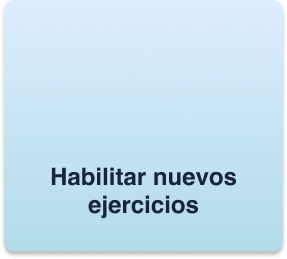
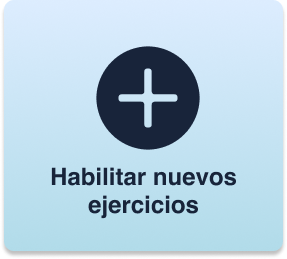
ok?

Changed region(s): [[0.3345, 0.1544, 0.6969, 0.5869]]

diff --git a/src/frontend/CUIDADOR/guia/guia.tsx b/src/frontend/CUIDADOR/guia/guia.tsx
@@ -6,30 +6,43 @@ export default function Guia() {
     const navigate = useNavigate();
 
     const handleNavigateBack = () => {
-        navigate (-1);
+        navigate(-1);
     }
     
     return (
         <div className="contenedor-guia">
             <div className="guia-content">
                 <img src={flecha} alt="flecha" className='flecha' onClick={handleNavigateBack}/>
-                <h1>Titulo</h1>
+                <h1>Guía Médica sobre el ACV</h1>
+                
                 <div className="guia-section">
-                    <h2>Subtitulo</h2>
-                    <p>Bueno acá va ir el súper pro texto breve brevisimo en 24px de tamaño y en helvetica regular porq helvetica es la mejor tipografia del mundo y esta no tiene que ser TAN accesible pero sí super legible helvetica fucking prime</p>
+                    <h2>¿Qué es y cuál es su fisiopatología?</h2>
+                    <p>Un Accidente Cerebrovascular (ACV) o ictus es una emergencia neurológica crítica que ocurre cuando se interrumpe el flujo sanguíneo a una región específica del cerebro. Esta interrupción priva inmediatamente a las neuronas de oxígeno y glucosa, desencadenando una cascada isquémica que, de no revertirse a tiempo, conduce a la muerte celular irreversible.</p>
+                    <p>Existen dos mecanismos fisiopatológicos principales. El más frecuente es el ACV isquémico, que representa aproximadamente el 85% de los casos. Este se produce por la oclusión de una arteria cerebral, generalmente a causa de un trombo formado in situ (aterotrombótico) o un émbolo que viaja desde otra parte del cuerpo, comúnmente desde el corazón.</p>
+                    <p>El segundo mecanismo es el ACV hemorrágico, responsable del 15% restante de los casos. Se desencadena por la ruptura de un vaso sanguíneo intracraneal, lo que genera un sangrado directo en el tejido cerebral o en el espacio subaracnoideo. Esta hemorragia no solo priva de sangre al área afectada, sino que eleva bruscamente la presión dentro del cráneo, comprimiendo mecánicamente el cerebro sano circundante.</p>
                 </div>
+                
                 <div className="guia-section">
-                    <h2>Subtitulo</h2>
-                    <p>Bueno acá va ir el súper pro texto breve brevisimo en 24px de tamaño y en helvetica regular porq helvetica es la mejor tipografia del mundo y esta no tiene que ser TAN accesible pero sí super legible helvetica fucking prime</p>
+                    <h2>Factores de riesgo determinantes</h2>
+                    <p>El desarrollo de un evento cerebrovascular está fuertemente condicionado por factores de riesgo que la medicina clasifica en no modificables y modificables. Entre los no modificables destacan la edad avanzada, el sexo biológico y la predisposición genética o antecedentes familiares de enfermedades cardiovasculares.</p>
+                    <p>El enfoque clínico preventivo se centra en los factores modificables. La hipertensión arterial crónica es el factor predictivo y causal más significativo, ya que genera un daño mecánico y progresivo en las paredes de las arterias (endotelio vascular). A esto se suman patologías metabólicas como la diabetes mellitus, que acelera drásticamente la ateroesclerosis, y la dislipidemia, caracterizada por niveles elevados de colesterol LDL circulante.</p>
+                    <p>Adicionalmente, las afecciones cardíacas, en particular las arritmias como la fibrilación auricular, incrementan de manera exponencial el riesgo de que se formen coágulos en el corazón. Todo este cuadro metabólico y vascular se ve agravado severamente por conductas de riesgo como el tabaquismo crónico, el sedentarismo absoluto, la obesidad y el consumo nocivo de alcohol.</p>
                 </div>
+                
                 <div className="guia-section">
-                    <h2>Subtitulo</h2>
-                    <p>Bueno acá va ir el súper pro texto breve brevisimo en 24px de tamaño y en helvetica regular porq helvetica es la mejor tipografia del mundo y esta no tiene que ser TAN accesible pero sí super legible helvetica fucking prime</p>
+                    <h2>Manejo agudo y prevención médica</h2>
+                    <p>En el ámbito de la neurología de urgencias, el protocolo de atención se rige por la máxima "el tiempo es cerebro". Frente a un ACV isquémico en su fase hiperaguda (dentro de una ventana terapéutica estricta de 4.5 horas), el tratamiento estándar es la reperfusión mediante trombólisis intravenosa con fármacos que disuelven el coágulo, o bien, la extracción del mismo mediante una trombectomía mecánica endovascular.</p>
+                    <p>Una vez superada la fase aguda, la estrategia se vuelca hacia la prevención secundaria para evitar un nuevo evento. Esto exige un esquema farmacológico estricto de por vida, que incluye el uso de agentes antihipertensivos para mantener la presión arterial controlada, y estatinas de alta intensidad para estabilizar las placas de colesterol y reducir la inflamación arterial.</p>
+                    <p>Dependiendo del origen específico del ACV, el paciente requerirá también terapia antitrombótica focalizada. Esto implica la administración de antiagregantes plaquetarios (como la aspirina) para causas vinculadas a la ateroesclerosis, o la prescripción de anticoagulantes orales en aquellos pacientes cuyo ACV tuvo un origen cardíaco documentado.</p>
                 </div>
+                
                 <div className="guia-section">
-                    <h2>Subtitulo</h2>
-                    <p>Bueno acá va ir el súper pro texto breve brevisimo en 24px de tamaño y en helvetica regular porq helvetica es la mejor tipografia del mundo y esta no tiene que ser TAN accesible pero sí super legible helvetica fucking prime</p>
+                    <h2>Rehabilitación neurocognitiva y física</h2>
+                    <p>El proceso de recuperación funcional tras un ACV se fundamenta biológicamente en la neuroplasticidad: la asombrosa capacidad del tejido cerebral periférico sano para reorganizar sus redes sinápticas y asumir progresivamente las funciones del área lesionada. Para optimizar este proceso, es innegociable la intervención temprana de un equipo interdisciplinario.</p>
+                    <p>La rehabilitación física, liderada por la kinesiología neurológica, se enfoca intensivamente en recuperar el control motor, el equilibrio y la marcha, mitigando secuelas como la espasticidad muscular (rigidez). En paralelo, la fonoaudiología resulta vital para rehabilitar los trastornos neurológicos de la deglución (disfagia), previniendo ahogos, y para tratar los déficits de comprensión o expresión del lenguaje (afasias).</p>
+                    <p>Finalmente, la terapia ocupacional es indispensable para reentrenar las actividades de la vida diaria, devolviendo al paciente la mayor autonomía posible. A nivel psiquiátrico, el apoyo emocional y farmacológico es crucial, ya que la depresión post-ACV es una secuela neuroquímica muy frecuente que, de no ser tratada, paraliza la motivación y la adherencia al programa de rehabilitación.</p>
                 </div>
+                
             </div>
         </div>
     );

diff --git a/src/frontend/CUIDADOR/guia/guia.css b/src/frontend/CUIDADOR/guia/guia.css
@@ -25,6 +25,12 @@
     box-shadow: 0px 4px 15px rgba(0, 0, 0, 0.1);
 }
 
+.guia-section p {
+    text-indent: 2rem; /* Esto le da la sangría a la primera línea */
+    margin-bottom: 1rem; /* Esto deja un espacio en blanco entre párrafo y párrafo para que respire */
+    text-align: justify; /* Opcional: probalo si querés que el texto quede alineado como en un libro */
+}
+
 /* Custom Scrollbar */
 .guia-content::-webkit-scrollbar {
     width: 10px;
